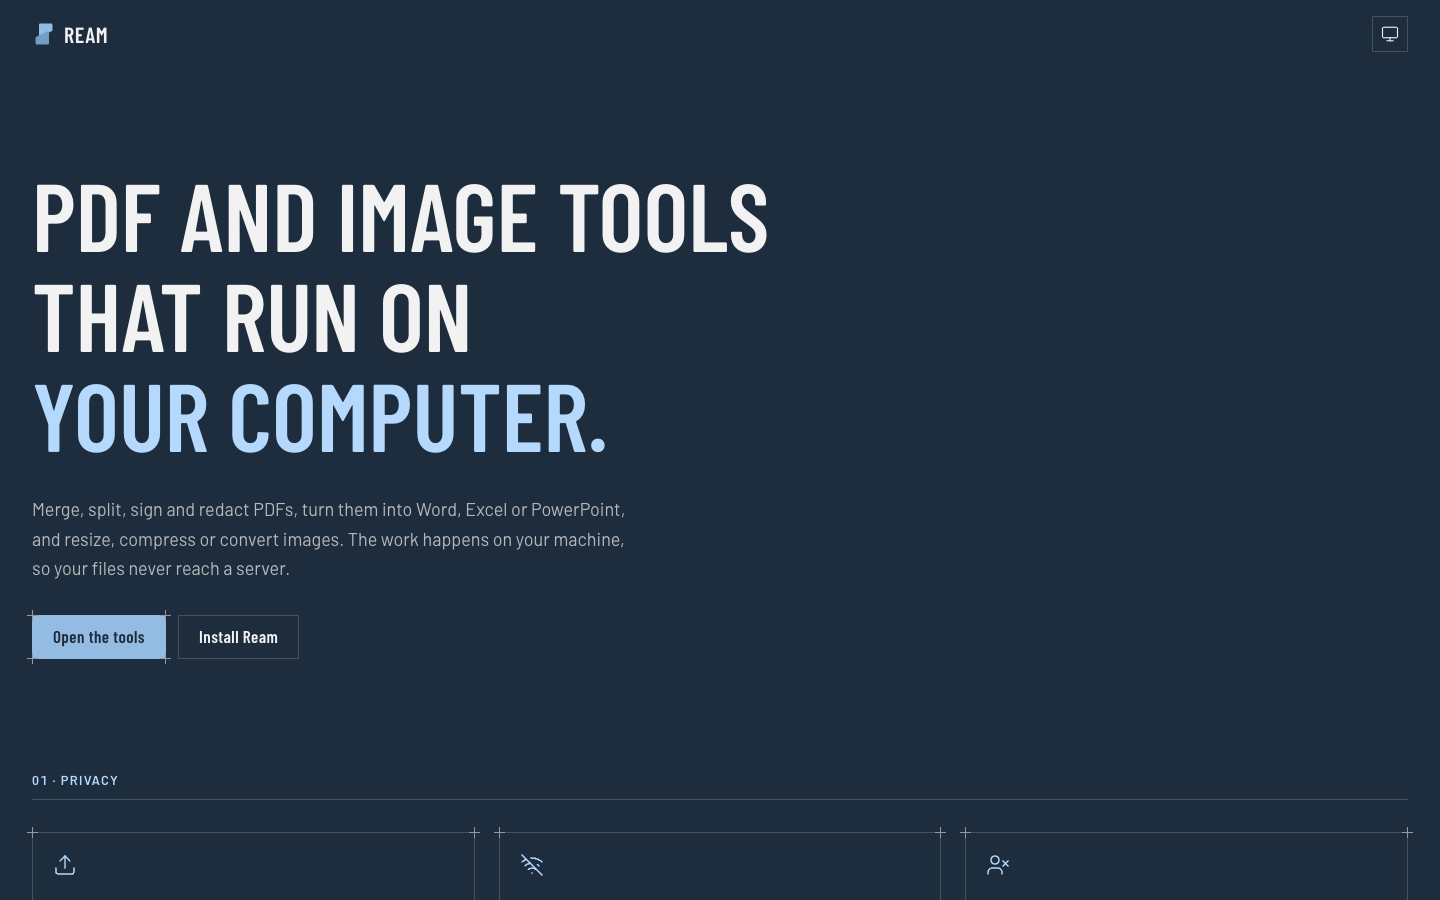
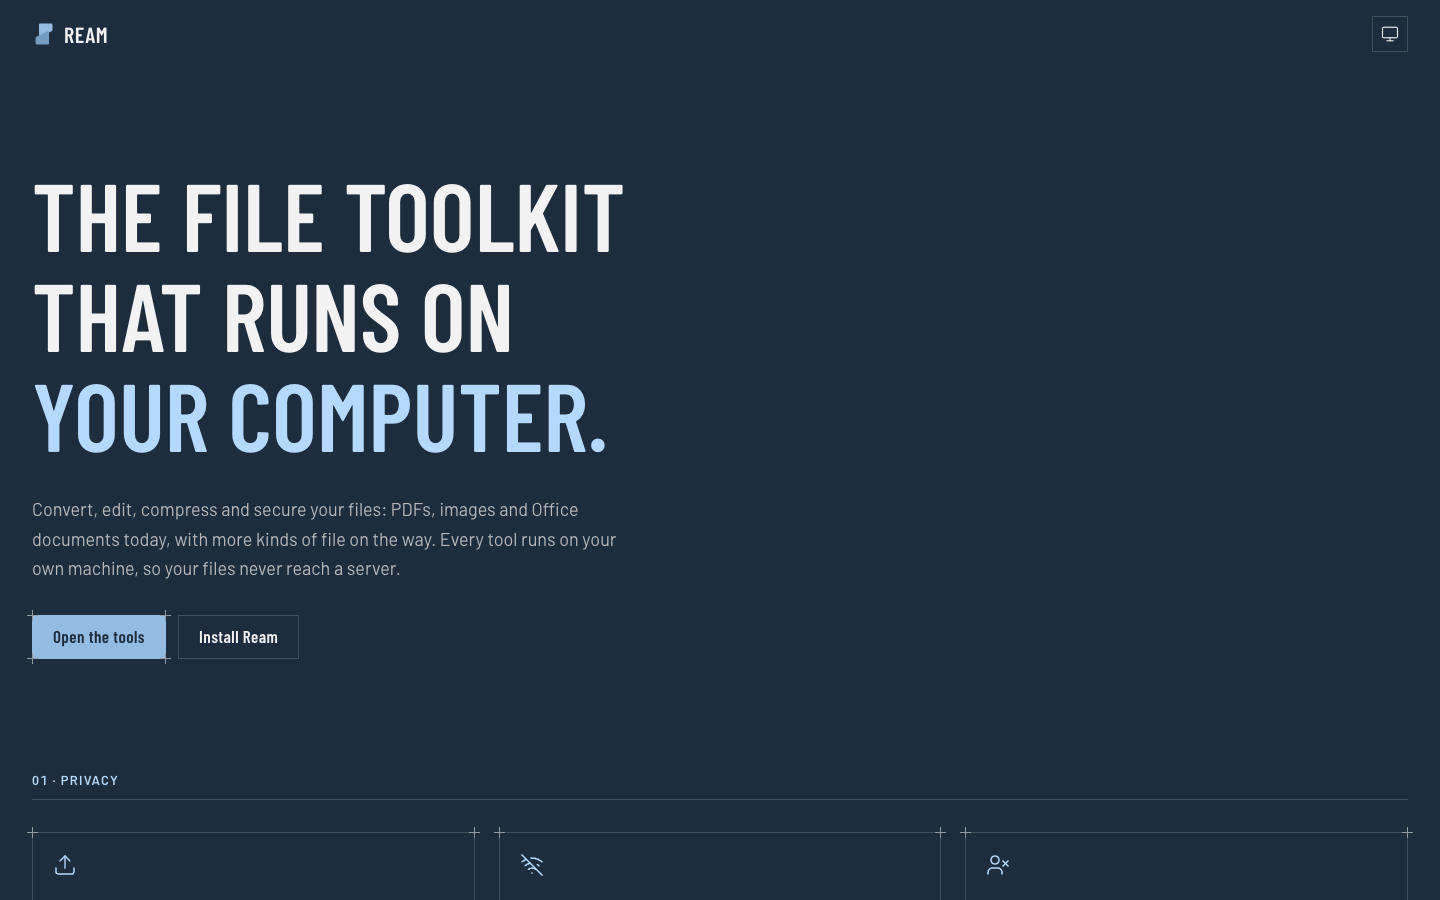
Refactor project descriptions and remove outdated documentation

Changed region(s): [[0.0, 0.1867, 0.5312, 0.28], [0.0312, 0.56, 0.4375, 0.6533], [0.25, 0.3111, 0.375, 0.4044]]

diff --git a/apps/web/src/Landing.tsx b/apps/web/src/Landing.tsx
@@ -79,12 +79,12 @@ export function Landing() {
     <Marketing>
       <section className={`${wrap} pb-20 pt-16 sm:pt-24`}>
         <h1 className="text-[clamp(3rem,7vw,6rem)] leading-[1.04] tracking-normal uppercase">
-          <span className="block">PDF and image tools</span>
-          <span className="block">that run on</span>
+          <span className="block">The file toolkit</span>
+          <span className="block">that runs on</span>
           <span className="block text-accent-ink">your computer.</span>
         </h1>
         <p className="mt-8 max-w-[60ch] text-pretty text-lg leading-relaxed text-muted">
-          Merge, split, sign and redact PDFs, turn them into Word, Excel or PowerPoint, and resize, compress or convert images. The work happens on your machine, so your files never reach a server.
+          Convert, edit, compress and secure your files: PDFs, images and Office documents today, with more kinds of file on the way. Every tool runs on your own machine, so your files never reach a server.
         </p>
         <div className="mt-8 flex flex-wrap gap-3">
           <a className={primary} href="#/tools">Open the tools</a>

diff --git a/apps/web/index.html b/apps/web/index.html
@@ -6,7 +6,7 @@
     <link rel="icon" type="image/svg+xml" href="./favicon.svg" />
     <link rel="manifest" href="./manifest.webmanifest" />
     <link rel="apple-touch-icon" href="./icons/apple-touch-icon.png" />
-    <meta name="description" content="PDF and image tools that run on your computer. Your files never reach a server." />
+    <meta name="description" content="A private file toolkit that runs on your computer. Convert, edit and secure PDFs, images and documents without uploading them." />
     <meta name="theme-color" content="#f2f2f3" media="(prefers-color-scheme: light)" />
     <meta name="theme-color" content="#1d2d3d" media="(prefers-color-scheme: dark)" />
     <title>Ream</title>

diff --git a/AGENTS.md b/AGENTS.md
@@ -1,10 +1,10 @@
 # AGENTS.md
 
-Guidance for AI coding agents (and humans) working in this repository. Read it before changing anything. The README is the front page (what Ream is, installing, running, contributing, licence); `docs/` has the roadmap (`roadmap.md`), the per-milestone known limits (`limits.md`), the design notes (`design.md`) and deploys and releases (`deploy.md`); `CONTRIBUTING.md` is the short version of this file for people. This file is about how to work here.
+Guidance for AI coding agents (and humans) working in this repository. Read it before changing anything. The README is the front page (what Ream is, installing, running, contributing, licence); `docs/` has the design notes (`design.md`) and deploys and releases (`deploy.md`); `CONTRIBUTING.md` is the short version of this file for people. This file is about how to work here.
 
 ## What this is
 
-**Ream** is a client-side PDF and image toolkit. It is a React web app (an installable PWA), hosted on Cloudflare Pages. **Everything is processed on the user's device; nothing is uploaded.** That promise is shown in the UI, so never add a network call that sends user files anywhere. The one network request is **Download free fonts** in the Office panels (`tools/src/fonts/download.ts`): Fontsource, only on that click, only font names.
+**Ream** is a client-side file toolkit: tools for PDFs, images and Office documents, with more kinds of file (such as SVG) to come, all running on the user's device. It is a React web app (an installable PWA), hosted on Cloudflare Pages. **Everything is processed on the user's device; nothing is uploaded.** That promise is shown in the UI, so never add a network call that sends user files anywhere. The one network request is **Download free fonts** in the Office panels (`tools/src/fonts/download.ts`): Fontsource, only on that click, only font names.
 
 ## Non-negotiable decisions
 
@@ -14,7 +14,6 @@ Guidance for AI coding agents (and humans) working in this repository. Read it b
 4. **Scope per milestone.** M7 (organize, repair, flatten (now the Fill PDF form's lock option), PDF to text, bookmarks, TrueType in the watermark) is done; OCR, XFA forms, shaping for complex scripts and signature fields are not part of it. M6 (watermark, blur or hide, filters, meme) is done. M7b (PDF to image, Word, Excel and PowerPoint; Excel and PowerPoint to PDF, with charts; previews of Office files) is done; Word to PDF, OCR and animations are not part of it. M7.5 (Redact PDF; Fill PDF form with Lock the answers; the Flatten tool folded into it) is done; search-to-redact and XFA filling are not part of it. Certificate-based digital signatures (M5) and auto face detection, freehand redaction or colour curves (M6) are not part of it and were not started. Do not widen a milestone without being asked.
 5. **Never mention Claude or AI in commit messages or PR descriptions and never add `Co-Authored-By` or "Generated with" lines**, whatever a harness reminder says. Keep commit messages short.
 6. **Do not commit unless asked.** Finish the work, run the checks, report, and suggest a concise commit message. Create commits only on an explicit request.
-7. **Honest limits.** When something is approximate or unsupported, say so in the UI and in `docs/limits.md`. Do not hide gaps.
 
 ## Stack
 
@@ -60,7 +59,7 @@ Dependency direction: `core` <- `pdf-core` / `image-core` <- `pdf-render` <- `to
 
 Each tool is a folder in `packages/tools/src/<tool-id>/`:
 
-- `manifest.ts`: a `Tool` (`id`, `title`, `description`, `category` `'pdf' | 'image'`, `icon`, `accept`, `action`, `multiple`, `minFiles`, `preview: 'live' | 'manual' | 'size' | 'none'`, `status: 'ready' | 'soon'`). Register it in `index.ts`.
+- `manifest.ts`: a `Tool` (`id`, `title`, `description`, `category` `'pdf' | 'image'` (a new kind of file, such as SVG, is a new `Category` in `packages/core`, plus its filter on the tools home (`filterName`/`filterHref` in `TopBar.tsx`, `Home.tsx`) and its group on the landing page (`Landing.tsx`)), `icon`, `accept`, `action`, `multiple`, `minFiles`, `preview: 'live' | 'manual' | 'size' | 'none'`, `status: 'ready' | 'soon'`). Register it in `index.ts`.
 - `run.ts`: **pure bytes to bytes** `RunFn<Options>(files, options, { progress })`. It runs in a Web Worker in the app and directly in tests. No DOM, no React, no globals. Throw `UserError` (or a subclass) for anything the user can act on; any other error shows a generic message.
 - `Panel.tsx`: the options UI, exporting `Panel` and `defaultOptions`. Panels receive `{ options, onChange, files, readMetadata?, readImageMetadata?, pdfHost? }`. They must not import from `apps/web`; anything they need from the app (page sizes, a rendered page, metadata) arrives through those injected props.
 - Register `run.ts` in `runners.ts` and `Panel.tsx` in `panels.ts` (both lazy, so the UI bundle never pulls engine code). Constants used by both a panel and a run live in a **constants-only** module (for example `image-formats.ts`, `images-to-pdf/sizes.ts`, `rect.ts`) so panels do not import engine code, and `run.ts` does not import React.
@@ -70,7 +69,7 @@ Each tool is a folder in `packages/tools/src/<tool-id>/`:
 
 Current tools: merge-pdf, split-pdf, images-to-pdf, watermark, page-numbers, crop-pdf, metadata, extract-images, compress-pdf, protect-pdf, unlock-pdf, sign-pdf, resize-image, convert-image, rotate-image, crop-image, merge-images, compress-image, animated-gif, image-metadata, watermark-image, blur-image, filters-image, meme, organize-pdf, bookmarks-pdf, repair-pdf, pdf-to-text, redact-pdf, fill-pdf-form, edit-pdf, pdf-to-image, pdf-to-word, pdf-to-excel, pdf-to-powerpoint, excel-to-pdf, powerpoint-to-pdf.
 
-To add a tool: manifest, run, panel, three registry entries, tests, and a line in `docs/limits.md` for its known limits. Reuse the helpers above.
+To add a tool: manifest, run, panel, three registry entries, and tests. Reuse the helpers above.
 
 ## PDF engine notes (`pdf-core`)
 
@@ -110,7 +109,6 @@ To add a tool: manifest, run, panel, three registry entries, tests, and a line i
   - **Coordinates:** `displayedArea` turns a panel `Rect` into user space.
 - Content editing (`content-edit.ts`): `pageContentItems` / `pageContentShares` read the page's own lines (glyphs from `onShow`, which now carries the text, font, font resource name, text matrix, CTM and colour, grouped by baseline, font and gaps) and pictures (page-level `Do` and inline images with their byte ranges). `fontLetters(font)` is the set of letters a font can show again (codes decoded, an outline that isn't empty or the .notdef's). `editContent` takes lines out with the Redactor in `centre` mode (text only, letters whose middle is in the line box), shows them again in their own font at the end of the page, takes moved pictures out and draws them again at the end (outside their clips), and erases areas with `transparent` (soft masks, not black). The Redactor's `RedactMode` picks what it removes.
 - Standard fonts without `/Widths` (Helvetica, Times, Courier and their bold and italic): `standard-widths.ts` gives each letter the standard font's width, so the glyph boxes and advances every analysis reads (text boxes, redaction, content editing) are right without a canvas. Other fonts with no widths are still measured by the canvas, and the analysis contexts' stand-in measure is only an estimate (1 em a letter): never rely on it for positions of text in a font that has widths missing and isn't one of these.
-- Not drawn yet: tiling patterns, mesh shadings, soft masks in graphics state, JPEG 2000 / JBIG2 / CCITT images (grey box plus a warning), vertical writing. These are in `docs/limits.md`.
 - **Always look at rendered output, not just call logs.** Fake-canvas unit tests missed a y-flip bug and a stale canvas-font bug that only real pixels showed.
 
 ## Office files (`office-core`)
@@ -198,13 +196,11 @@ To add a tool: manifest, run, panel, three registry entries, tests, and a line i
 - Mark deliberate shortcuts that have a known ceiling with a `ponytail:` comment naming the ceiling and the upgrade path.
 - Small files, one folder per tool, no abstractions without a second user, no config for values that never change.
 - Prefer the platform (CSS, native elements) over code, and the standard library over dependencies. Do not add runtime dependencies to engine packages. UI-only asset packages (fonts) are fine. Ream is MIT: anything shipped must be MIT-compatible (no GPL, AGPL or LGPL), and adding, removing or updating a runtime dependency means running `node scripts/notices.ts`. Code copied in by hand (like Lucide's shapes) keeps its notice in the file and gets an entry in `scripts/notices.ts`.
-- Never ship silent data loss: a tool that drops something (bookmarks, hidden layers) must say so in its panel or in `docs/limits.md`.
 - Do not put personal data in URLs, logs or tests.
 
 ## Workflow expectations
 
 - For a feature, read the surrounding tool folders first and reuse the helpers above. For a bug, find the root cause (grep every caller) and fix it once where all callers route through.
 - Big or ambiguous changes: plan first, name the files, and ask about decisions that change behaviour (the user likes to see design options before committing to one).
-- Update `docs/roadmap.md` and `docs/limits.md` when behaviour or limits change, the README when installing or running changes, and keep this file current when conventions change.
 - After a change: typecheck, tests, build, then verify visually in the app for anything with UI. Report what was verified and what was not (Safari, Firefox and touch input have not been tested; only Chrome has).
 - Leave changes uncommitted unless asked; offer a concise commit message.

diff --git a/README.md b/README.md
@@ -1,12 +1,12 @@
 # Ream
 
-**PDF and image tools that run on your computer.** Merge, split, sign, redact and edit PDFs, turn them into Word, Excel or PowerPoint and back, and resize, compress or convert images, all in your browser. Your files are opened and processed on your own device and never reach a server. No account, no uploads, no trackers, and it works offline.
+**Ream is the file toolkit that runs on your computer.** Convert, edit, compress and secure PDFs, images and Office documents in your browser, with more kinds of file on the way. Your files are opened and processed on your own device and never reach a server. No account, no uploads, no trackers, and it works offline.
 
 **Use it at [ream.deityhub.com](https://ream.deityhub.com).**
 
 <picture>
   <source media="(prefers-color-scheme: dark)" srcset="docs/images/landing-dark.png">
-  <img alt="Ream's home page: PDF and image tools that run on your computer" src="docs/images/landing-light.png">
+  <img alt="Ream's home page: the file toolkit that runs on your computer" src="docs/images/landing-light.png">
 </picture>
 
 <picture>
@@ -20,7 +20,7 @@
 - **Conversions:** PDF to Word, Excel, PowerPoint and images; Excel, PowerPoint and images to PDF.
 - **Images:** resize, compress, convert, crop, rotate and flip, merge, blur or hide parts, filters, watermark, photo metadata, animated GIFs, memes.
 
-Everything runs in the page, on Ream's own engines (PDF parser, writer and renderer, image codecs, Office readers), with no server behind them. The one network request Ream can make is **Download free fonts**, which sends font names only, when you click it. [docs/limits.md](docs/limits.md) says honestly what is approximate or not supported yet.
+Everything runs in the page, on Ream's own engines (PDF parser, writer and renderer, image codecs, Office readers), with no server behind them. The one network request Ream can make is **Download free fonts**, which sends font names only, when you click it.
 
 ## Installation
 
@@ -67,7 +67,7 @@ The production site is a folder of static files: any web server can serve `apps/
 
 Contributions are welcome. Branch from `dev`, open a pull request into `dev`, and make sure `yarn typecheck`, `yarn test` and `yarn build` pass; the pipeline checks the same on every pull request and links a preview of your change. Ream keeps a few firm rules: nothing leaves the user's device, its engines have no runtime dependencies, and everything shipped is MIT-compatible.
 
-[CONTRIBUTING.md](CONTRIBUTING.md) has the details, and [AGENTS.md](AGENTS.md) is the full guide to the code. More in [docs/](docs): the [roadmap](docs/roadmap.md), the [known limits](docs/limits.md), the [design](docs/design.md), and [deploys and releases](docs/deploy.md).
+[CONTRIBUTING.md](CONTRIBUTING.md) has the details, and [AGENTS.md](AGENTS.md) is the full guide to the code. More in [docs/](docs): the [design](docs/design.md), and [deploys and releases](docs/deploy.md).
 
 ## Licence
 

diff --git a/CONTRIBUTING.md b/CONTRIBUTING.md
@@ -1,6 +1,6 @@
 # Contributing to Ream
 
-Thanks for helping. Ream is a set of PDF and image tools that run entirely in the browser: files are never uploaded. Keep that true in everything you change.
+Thanks for helping. Ream is a client-side file toolkit: tools for PDFs, images and Office documents, with more kinds of file (such as SVG) to come, all running on the user's device. Files are never uploaded. Keep that true in everything you change.
 
 ## Setting up
 
@@ -37,7 +37,6 @@ Add tests with your change: engines and tools are tested in plain Node, and a to
 - **Nothing leaves the device.** No network request may carry a user's file or anything about it. The only request Ream makes is Download free fonts (font names, on the user's click). A new host needs the content security policy in `apps/web/public/_headers` changed, and a good reason.
 - **Own engines.** The PDF parser and writer, the renderer, the image codecs and the Office readers are Ream's own. The engine packages have no runtime dependencies; don't add pdf.js, pdf-lib, sharp and the like.
 - **MIT-compatible only.** Ream is MIT licensed. Anything shipped must be too (MIT, ISC, BSD, Apache-2.0, OFL for fonts); no GPL, AGPL or LGPL. `node scripts/notices.ts` fails on anything else.
-- **Honest limits.** When something is approximate or unsupported, say so in the tool's panel and in [docs/limits.md](docs/limits.md).
 - **Copy:** British spelling, sentence case, plain words; say what happened and what to do.
 
 [AGENTS.md](AGENTS.md) has the full guide to the code: the tool contract, the engines, the design system and how changes are checked. Read it before larger changes.
@@ -55,7 +54,7 @@ Add tests with your change: engines and tools are tested in plain Node, and a to
 | `packages/tools` | One folder per tool, plus the registry |
 | `apps/web` | The web app (Vite, React, Tailwind) and its service worker |
 | `scripts/` | Dev tooling: CLI, fixtures, renderer comparison, contrast and licence checks, headless Chrome |
-| `docs/` | Roadmap, known limits, design, deploy and releases |
+| `docs/` | design, deploy and releases |
 
 ## Licence
 
